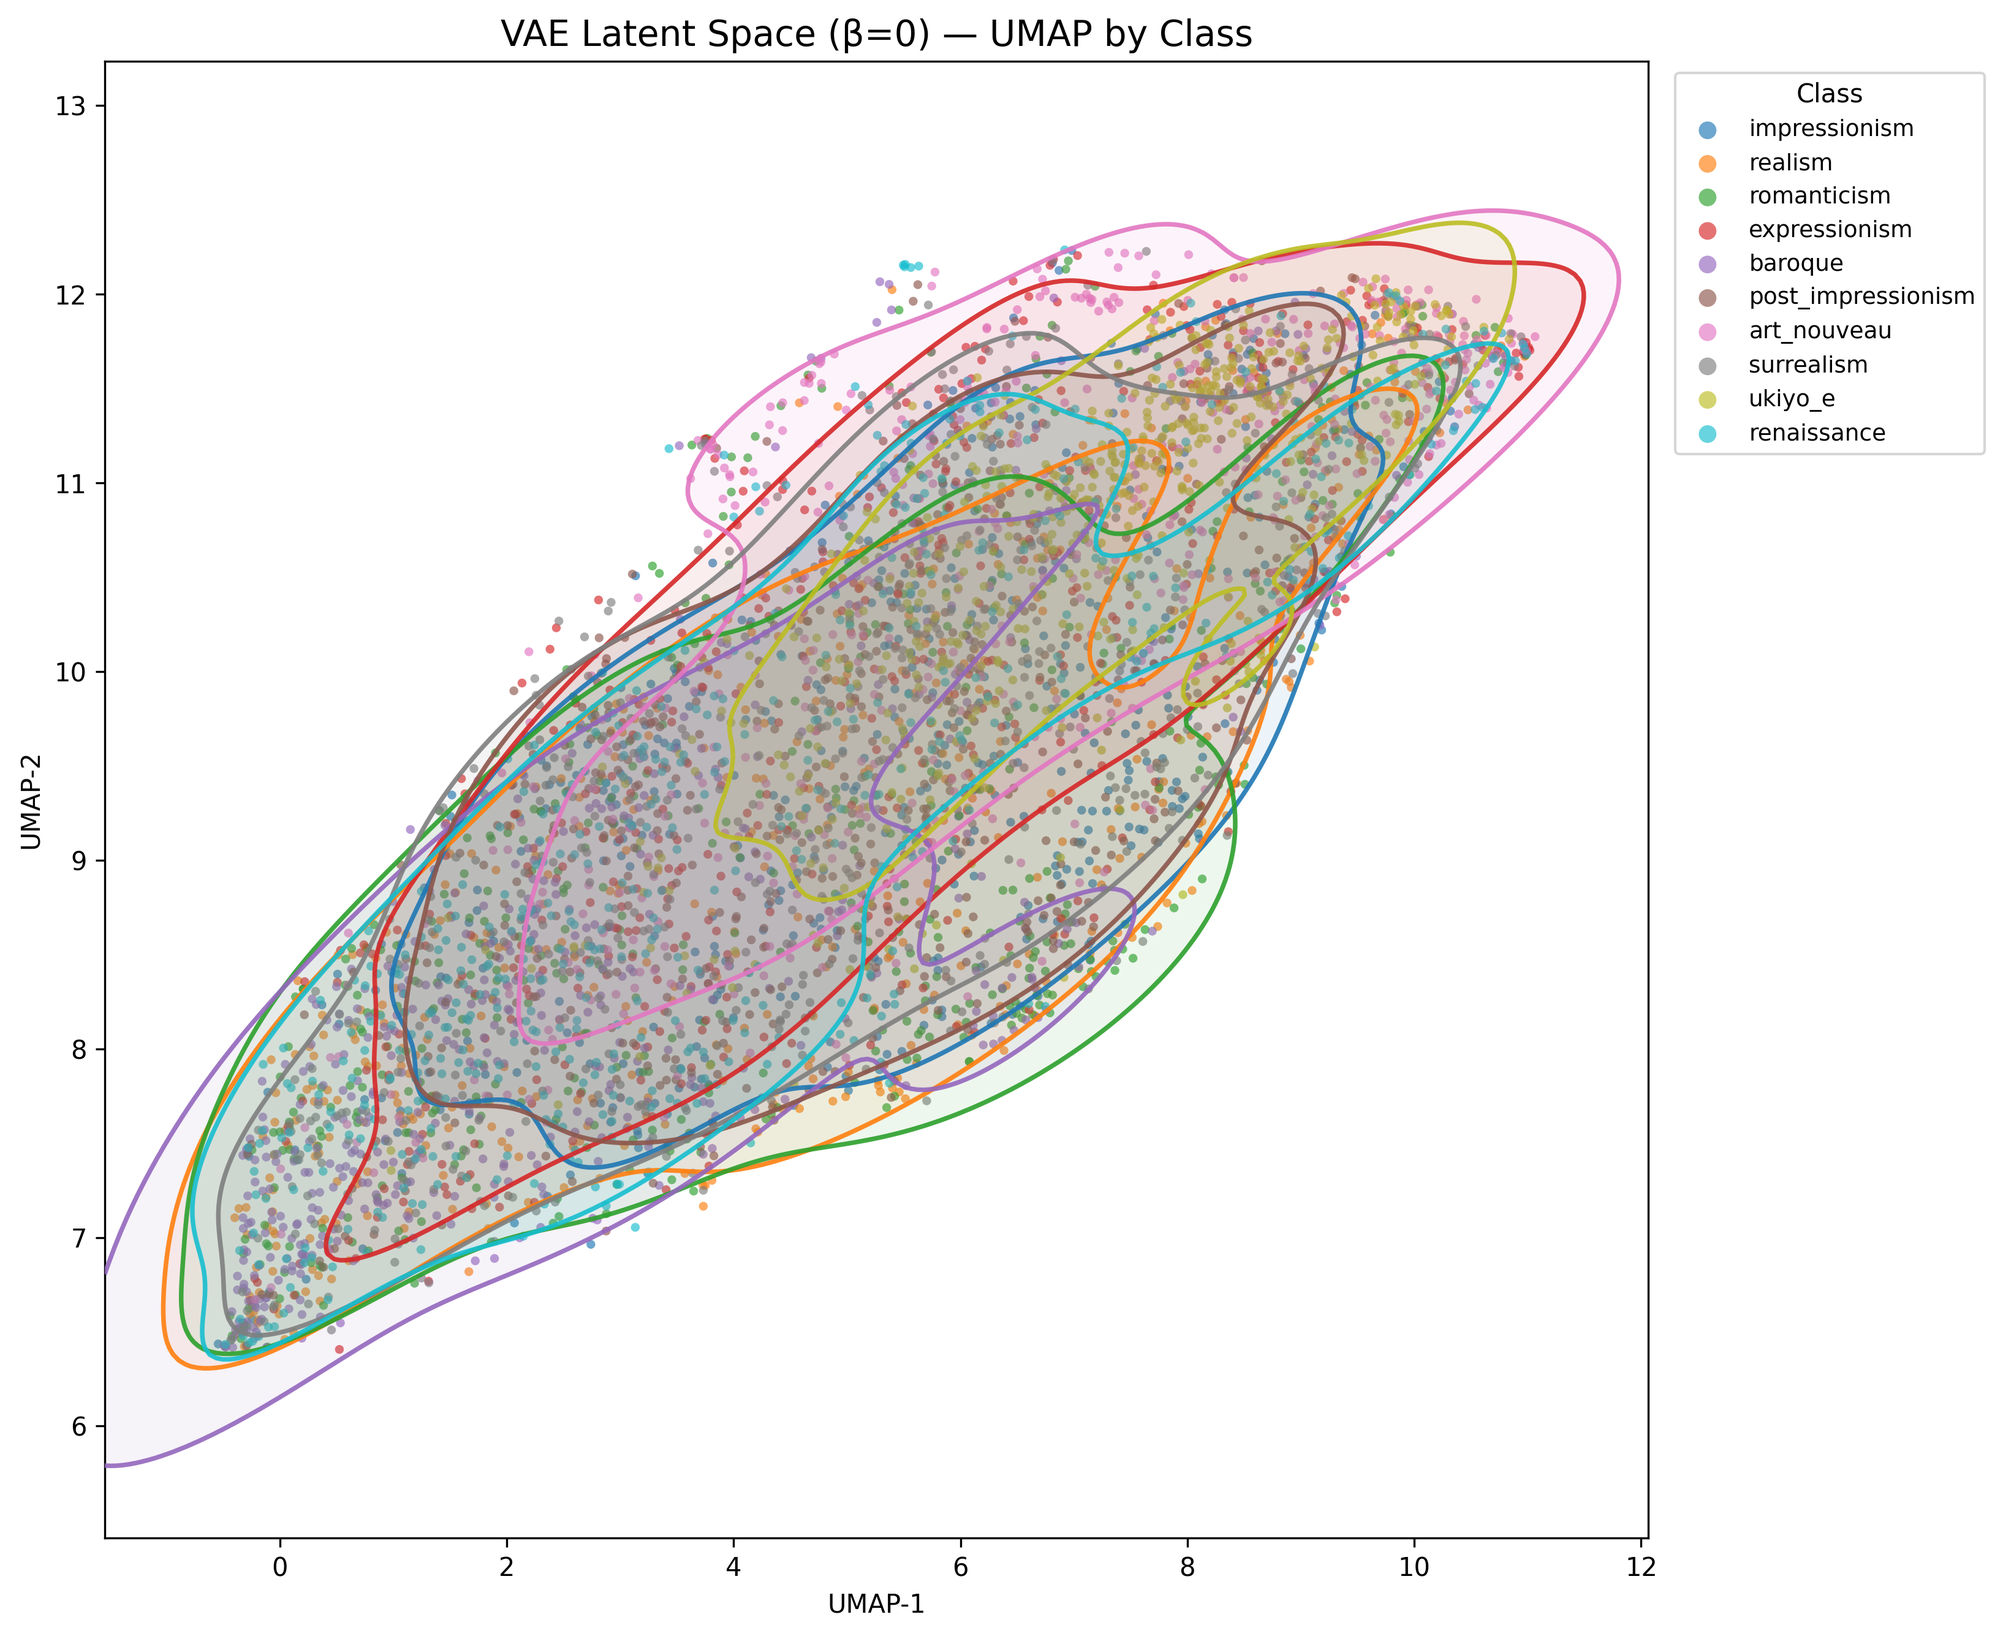
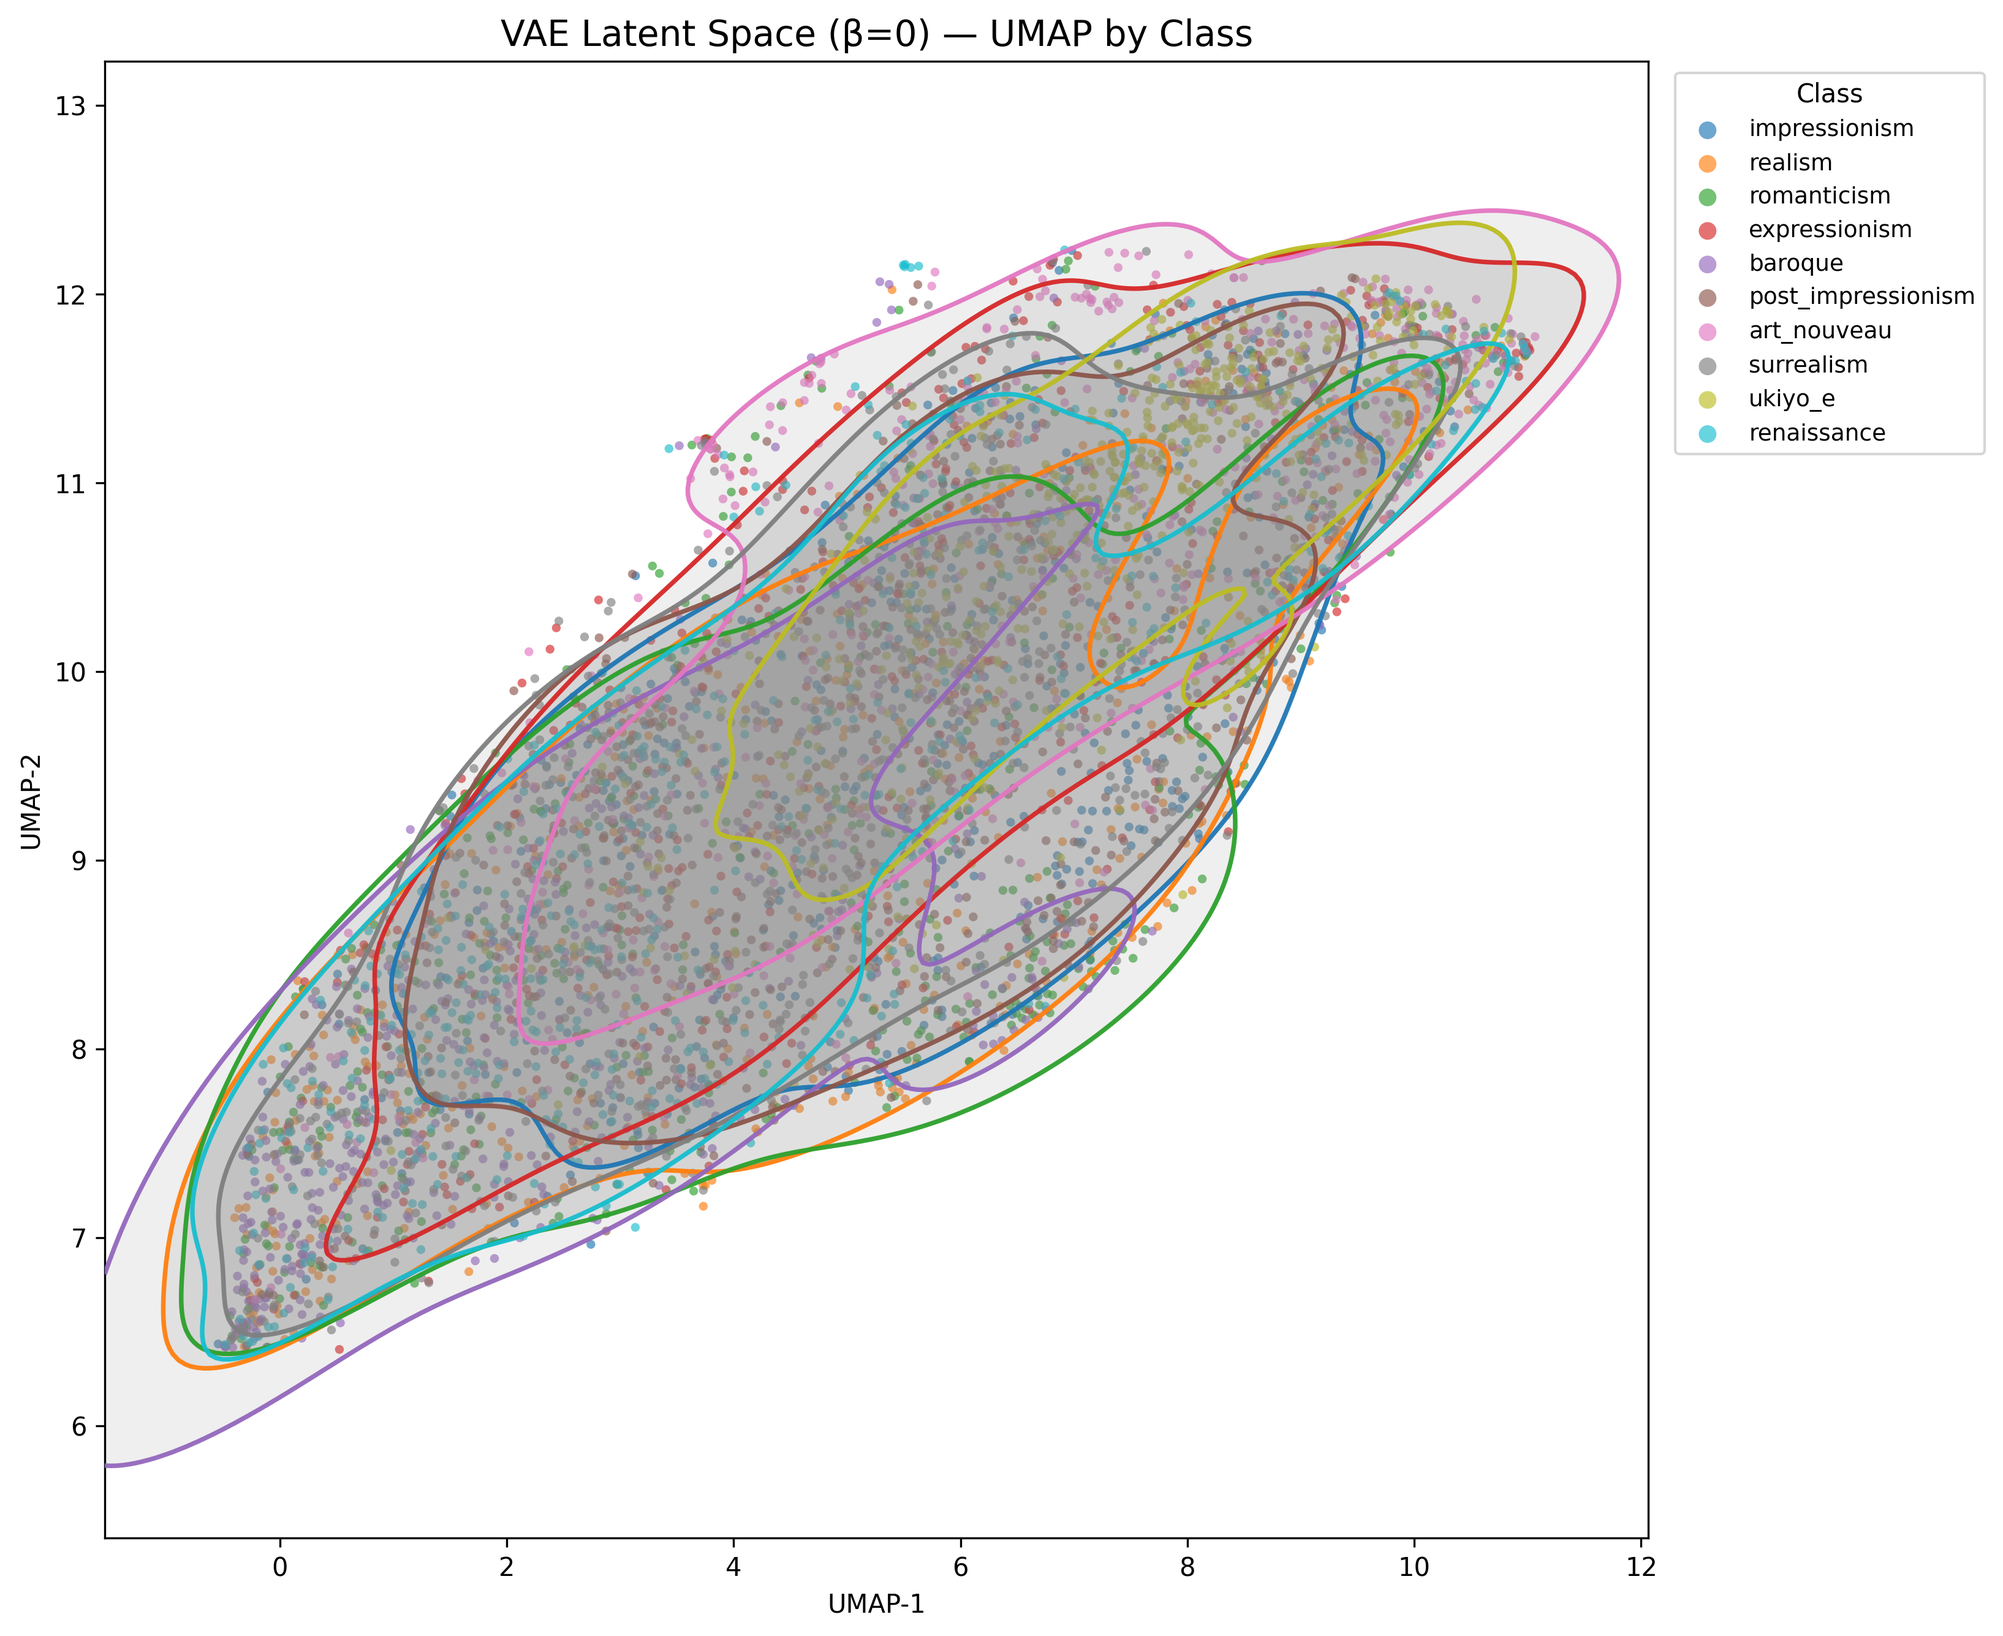
pre-human metrics stuff

Changed region(s): [[0.4056, 0.1243, 0.7801, 0.3419], [0.4368, 0.373, 0.6552, 0.5596], [0.3744, 0.3109, 0.4056, 0.373]]

diff --git a/generate_vae_inception_umap.py b/generate_vae_inception_umap.py
@@ -1,9 +1,14 @@
 """
-UMAP visualization of a VAE's latent space (mu vectors), colored by class.
-Each class appears as a distinct cluster.
+UMAP of VAE reconstructions in Inception V3 feature space.
+
+For each real image (with known class label):
+  1. Encode through VAE -> mu
+  2. Decode mu -> reconstruction
+  3. Extract 2048-dim Inception V3 pool features
+  4. UMAP + KDE soft class borders
 
 Usage:
-    python generate_vae_umap.py [--ckpt PATH] [--out PATH] [--num_samples 5000]
+    python generate_vae_inception_umap.py [--ckpt PATH] [--out PATH] [--num_samples 5000]
 """
 import os
 import sys
@@ -17,9 +22,12 @@ for p in (src_path, project_root):
 import argparse
 import numpy as np
 import torch
+import torch.nn as nn
 import matplotlib.pyplot as plt
-import matplotlib.patches as mpatches
+from torchvision.models import inception_v3, Inception_V3_Weights
+from torchvision.transforms import Resize
 from scipy.stats import gaussian_kde
+from tqdm import tqdm
 
 try:
     import umap
@@ -38,24 +46,46 @@ ARTBENCH_CLASSES = [
 ]
 
 
-def encode_in_batches(vae, images, device, batch_size=128):
+def build_inception_extractor(device):
+    model = inception_v3(weights=Inception_V3_Weights.DEFAULT)
+    model.fc = nn.Identity()
+    model.aux_logits = False
+    model = model.to(device).eval()
+    return model, Resize((299, 299), antialias=True)
+
+
+def extract_inception_features(images, inception, resize, device, batch_size=64):
+    """images: (N, C, H, W) tensor in [-1, 1]. Returns (N, 2048) numpy array."""
+    feats = []
+    with torch.no_grad():
+        for i in tqdm(range(0, images.size(0), batch_size), desc="Inception features"):
+            batch = images[i:i + batch_size].to(device)
+            batch = (batch + 1.0) / 2.0          # [-1,1] -> [0,1]
+            batch = resize(batch)                  # -> 299x299
+            feats.append(inception(batch).cpu().numpy())
+    return np.concatenate(feats, axis=0)
+
+
+def reconstruct_through_vae(vae, images, device, batch_size=128):
+    """Encode then decode each image; returns tensor same shape as input."""
     vae.eval()
-    mus = []
+    recons = []
     with torch.no_grad():
         for i in range(0, images.size(0), batch_size):
             batch = images[i:i + batch_size].to(device)
             mu, _ = vae.encode(batch)
-            mus.append(mu.cpu().numpy())
-    return np.concatenate(mus, axis=0)
+            recon = vae.decode(mu)               # use mu directly (no noise)
+            recons.append(recon.cpu())
+    return torch.cat(recons, dim=0)
 
 
 def main():
     parser = argparse.ArgumentParser()
     parser.add_argument("--ckpt", type=str, default="")
-    parser.add_argument("--run_prefix", type=str, default="vae", help="Prefix for auto checkpoint discovery")
+    parser.add_argument("--run_prefix", type=str, default="vae")
     parser.add_argument("--num_samples", type=int, default=5000)
-    parser.add_argument("--out", type=str, default="docs/report/images/umap_vae.png")
-    parser.add_argument("--title", type=str, default="VAE Latent Space (μ) — UMAP by Class")
+    parser.add_argument("--out", type=str, default="docs/report/images/umap_vae_inception.png")
+    parser.add_argument("--title", type=str, default="VAE Reconstructions — Inception Features UMAP by Class")
     args = parser.parse_args()
 
     device = torch.device("cuda" if torch.cuda.is_available() else "cpu")
@@ -73,7 +103,7 @@ def main():
     print(f"Using checkpoint: {ckpt_path}")
     config.update(ckpt_path)
 
-    model = _load_model("vae", ckpt_path, config.latent_dim, config.base_channels, device)
+    vae = _load_model("vae", ckpt_path, config.latent_dim, config.base_channels, device)
 
     # Load real images with labels
     print("Loading real images...")
@@ -99,40 +129,41 @@ def main():
     images = torch.cat(images, dim=0)[:args.num_samples]
     labels_np = torch.cat(labels, dim=0)[:args.num_samples].numpy()
 
-    # Encode to latent space
-    print("Encoding images to latent space...")
-    mu_vectors = encode_in_batches(model, images, device)
+    # Reconstruct through VAE
+    print("Reconstructing images through VAE...")
+    reconstructions = reconstruct_through_vae(vae, images, device)
 
-    # Filter out any NaN rows (can occur with beta=0 due to no KL regularization)
-    valid_mask = np.isfinite(mu_vectors).all(axis=1)
-    n_dropped = (~valid_mask).sum()
+    # Extract Inception features from reconstructions
+    print("Loading Inception V3...")
+    inception, resize = build_inception_extractor(device)
+    features = extract_inception_features(reconstructions, inception, resize, device)
+
+    # Filter NaN/Inf rows
+    valid = np.isfinite(features).all(axis=1)
+    n_dropped = (~valid).sum()
     if n_dropped > 0:
-        print(f"Warning: dropping {n_dropped} samples with NaN/Inf in latent space.")
-    mu_vectors = mu_vectors[valid_mask]
-    labels_np = labels_np[valid_mask]
+        print(f"Dropping {n_dropped} samples with NaN/Inf in Inception features.")
+    features = features[valid]
+    labels_np = labels_np[valid]
 
-    # Run UMAP
+    # UMAP
     print("Running UMAP...")
     reducer = umap.UMAP(n_neighbors=15, min_dist=0.1, metric="euclidean", random_state=42)
-    embedding = reducer.fit_transform(mu_vectors)
+    embedding = reducer.fit_transform(features)
 
     # Plot
     num_classes = len(class_names)
     cmap = plt.get_cmap("tab10")
-
     fig, ax = plt.subplots(figsize=(11, 9))
+
     for c in range(num_classes):
         mask = labels_np == c
         pts = embedding[mask]
         color = cmap(c / max(num_classes - 1, 1))
 
-        ax.scatter(
-            pts[:, 0], pts[:, 1],
-            color=color, s=12, alpha=0.65, edgecolors="none", label=class_names[c],
-        )
+        ax.scatter(pts[:, 0], pts[:, 1],
+                   color=color, s=12, alpha=0.65, edgecolors="none", label=class_names[c])
 
-        # KDE soft boundary — contour drawn at the density level that encloses
-        # ~85% of the class points, so outliers fall outside the border naturally.
         if len(pts) >= 10:
             try:
                 kde = gaussian_kde(pts.T, bw_method=0.35)
@@ -149,10 +180,8 @@ def main():
             except Exception:
                 pass
 
-    legend = ax.legend(
-        title="Class", bbox_to_anchor=(1.01, 1), loc="upper left",
-        fontsize=9, title_fontsize=10, markerscale=2,
-    )
+    ax.legend(title="Class", bbox_to_anchor=(1.01, 1), loc="upper left", fontsize=9,
+              title_fontsize=10, markerscale=2)
     ax.set_title(args.title, fontsize=14)
     ax.set_xlabel("UMAP-1")
     ax.set_ylabel("UMAP-2")

diff --git a/generate_cgan_umap.py b/generate_cgan_umap.py
@@ -20,6 +20,8 @@ import torch
 import torch.nn as nn
 import matplotlib.pyplot as plt
 import matplotlib.patches as mpatches
+from matplotlib.lines import Line2D
+from scipy.stats import gaussian_kde
 from tqdm import tqdm
 
 try:
@@ -154,29 +156,61 @@ def main():
     real_idx = is_real == 1
     fake_idx = is_real == 0
 
-    scatter_real = ax.scatter(
-        embedding[real_idx, 0], embedding[real_idx, 1],
-        c=all_labels[real_idx], cmap="tab10", vmin=0, vmax=num_classes - 1,
-        s=18, alpha=0.6, marker="o", edgecolors="none",
-    )
-    scatter_fake = ax.scatter(
-        embedding[fake_idx, 0], embedding[fake_idx, 1],
-        c=all_labels[fake_idx], cmap="tab10", vmin=0, vmax=num_classes - 1,
-        s=18, alpha=0.6, marker="s", edgecolors="none",
-    )
+    # Compute global grid bounds once
+    xlo, xhi = embedding[:, 0].min() - 1, embedding[:, 0].max() + 1
+    ylo, yhi = embedding[:, 1].min() - 1, embedding[:, 1].max() + 1
+    xx, yy = np.meshgrid(np.linspace(xlo, xhi, 250), np.linspace(ylo, yhi, 250))
+    grid_pts = np.vstack([xx.ravel(), yy.ravel()])
 
-    # Legend: class colors + real/fake markers
+    for c in range(num_classes):
+        color = cmap(c / max(num_classes - 1, 1))
+
+        real_mask = real_idx & (all_labels == c)
+        fake_mask = fake_idx & (all_labels == c)
+
+        # Scatter points
+        ax.scatter(embedding[real_mask, 0], embedding[real_mask, 1],
+                   color=color, s=18, alpha=0.55, marker="o", edgecolors="none", zorder=4)
+        ax.scatter(embedding[fake_mask, 0], embedding[fake_mask, 1],
+                   color=color, s=18, alpha=0.55, marker="s", edgecolors="none", zorder=4)
+
+        # KDE border — solid for real, dashed for fake
+        # Fill is grey so the colored border is always visible against it.
+        for pts, linestyle, draw_fill in [
+            (embedding[real_mask], "solid", True),
+            (embedding[fake_mask], "--", False),
+        ]:
+            if len(pts) < 10:
+                continue
+            try:
+                kde = gaussian_kde(pts.T, bw_method=0.35)
+                zz = kde(grid_pts).reshape(xx.shape)
+                threshold = np.percentile(kde(pts.T), 15)
+                ax.contour(xx, yy, zz, levels=[threshold],
+                           colors=["black"], linewidths=1.5, linestyles=linestyle,
+                           alpha=0.7, zorder=6)
+                if draw_fill:
+                    ax.contourf(xx, yy, zz, levels=[threshold, zz.max()],
+                                colors=[color], alpha=0.10, zorder=2)
+            except Exception:
+                pass
+
+    # Legend: class colours + marker/line type guide
     class_handles = [
-        mpatches.Patch(color=cmap(i / (num_classes - 1)), label=class_names[i])
+        mpatches.Patch(color=cmap(i / max(num_classes - 1, 1)), label=class_names[i])
         for i in range(num_classes)
     ]
-    marker_handles = [
-        plt.Line2D([0], [0], marker="o", color="w", markerfacecolor="gray", markersize=8, label="Real"),
-        plt.Line2D([0], [0], marker="s", color="w", markerfacecolor="gray", markersize=8, label="Fake"),
+    type_handles = [
+        Line2D([0], [0], marker="o", color="w", markerfacecolor="gray",
+               markersize=8, label="Real (circle / solid border)"),
+        Line2D([0], [0], marker="s", color="w", markerfacecolor="gray",
+               markersize=8, label="Fake (square / dashed border)"),
     ]
-    legend1 = ax.legend(handles=class_handles, title="Class", bbox_to_anchor=(1.01, 1), loc="upper left", fontsize=8)
+    legend1 = ax.legend(handles=class_handles, title="Class",
+                        bbox_to_anchor=(1.01, 1), loc="upper left", fontsize=8)
     ax.add_artist(legend1)
-    ax.legend(handles=marker_handles, title="Type", bbox_to_anchor=(1.01, 0.3), loc="upper left", fontsize=9)
+    ax.legend(handles=type_handles, title="Type",
+              bbox_to_anchor=(1.01, 0.28), loc="upper left", fontsize=8)
 
     ax.set_title(args.title, fontsize=14)
     ax.set_xlabel("UMAP-1")

diff --git a/docs/report/main.tex b/docs/report/main.tex
@@ -356,6 +356,24 @@ Crucially, this behavior cannot be attributed to posterior collapse (where the e
     \label{fig:umap_vae_both}
 \end{figure}
 
+\paragraph{cGAN Class-Wise Mode Collapse.}
+To diagnose the cGAN's failure mode, we trained two configurations and visualized the discriminator's internal feature space via UMAP (Figure \ref{fig:umap_cgan_both}). Features are extracted from the penultimate layer of the discriminator, which receives both the image and its class label as input, so the representation captures what the discriminator considers jointly realistic. Real images are shown as circles and generated images as squares, both colored by class. KDE soft boundaries (enclosing $\approx$85\% of each class's points) are drawn with solid lines for real and dashed lines for fake.
+
+The \textbf{collapsed} configuration (\texttt{d\_updates\_per\_g}=1, mismatch weight $\lambda=0.2$) shows tightly packed fake clusters that do not spread across the real distribution: the generator has found a per-class fixed point that superficially fools the discriminator without covering the true intra-class diversity. The solid (real) and dashed (fake) KDE borders for each class barely overlap, confirming that generated samples occupy a degenerate subregion of each class's real manifold.
+
+The \textbf{stable} configuration (\texttt{d\_updates\_per\_g}=5, $\lambda=1.0$) shows substantially higher cluster-wise variance in the fake distribution: the dashed KDE borders spread further and overlap more with the corresponding real borders, indicating the generator has been pushed to explore the full intra-class diversity rather than collapsing to a single mode. Two complementary mechanisms drove this improvement. First, increasing \texttt{d\_updates\_per\_g} to 5 gives the discriminator more signal per generator step, making it harder for the generator to find and exploit a degenerate fixed point. Second, raising the mismatch loss weight $\lambda$ to 1.0 penalizes the discriminator heavily for accepting real images paired with wrong labels, forcing it to learn genuinely class-discriminative features rather than settling for class-agnostic realism cues---and by extension forcing the generator to produce images that are class-specifically realistic rather than generically plausible.
+
+\begin{figure}[H]
+    \centering
+    \begin{tabular}{cc}
+        \includegraphics[width=0.48\textwidth]{images/umap_cgan_stable.png} &
+        \includegraphics[width=0.48\textwidth]{images/umap_cgan_collapse.png}
+    \end{tabular}
+    \vspace{-0.2cm}
+    \caption{UMAP of discriminator features (5,000 real + 5,000 fake samples) for the stable cGAN (left) and the collapsed cGAN (right). Circles = real, squares = fake; solid KDE border = real cluster, dashed = fake cluster. In the stable run, fake borders spread wider and overlap more with their real counterparts, indicating higher intra-class diversity. In the collapsed run, fake clusters are degenerate and misaligned with the real distribution.}
+    \label{fig:umap_cgan_both}
+\end{figure}
+
 \paragraph{Why Google DDPM can look better but score worse.}
 FID and KID evaluate distributional similarity in a fixed Inception feature space rather than directly measuring perceived coherence \cite{fid}. The fine-tuned Google DDPM starts from a CIFAR-10 prior that encodes photographic structure; after fine-tuning on ArtBench, it generates structurally coherent images, but their visual character remains closer to natural photographs than to paintings. This stylistic misalignment is precisely what FID/KID penalize: the generated distribution diverges from the ArtBench painting statistics in texture and style cues, while human observers reward the structural plausibility. In addition, a model may produce high-quality samples while under-covering modes (reduced diversity), which is penalized by distribution-level metrics even when qualitative grids appear strong.
 
